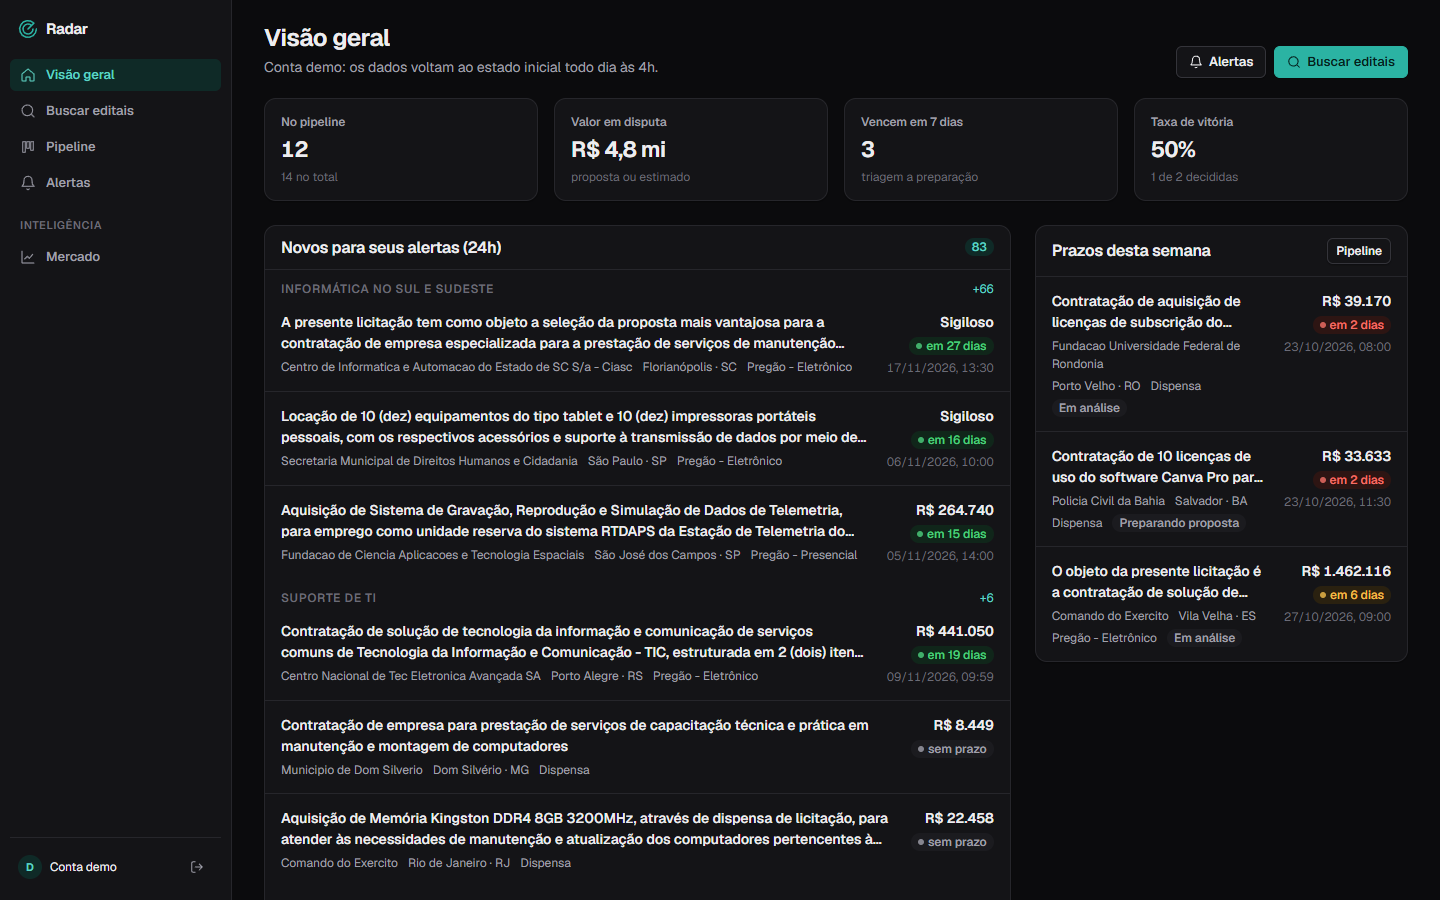
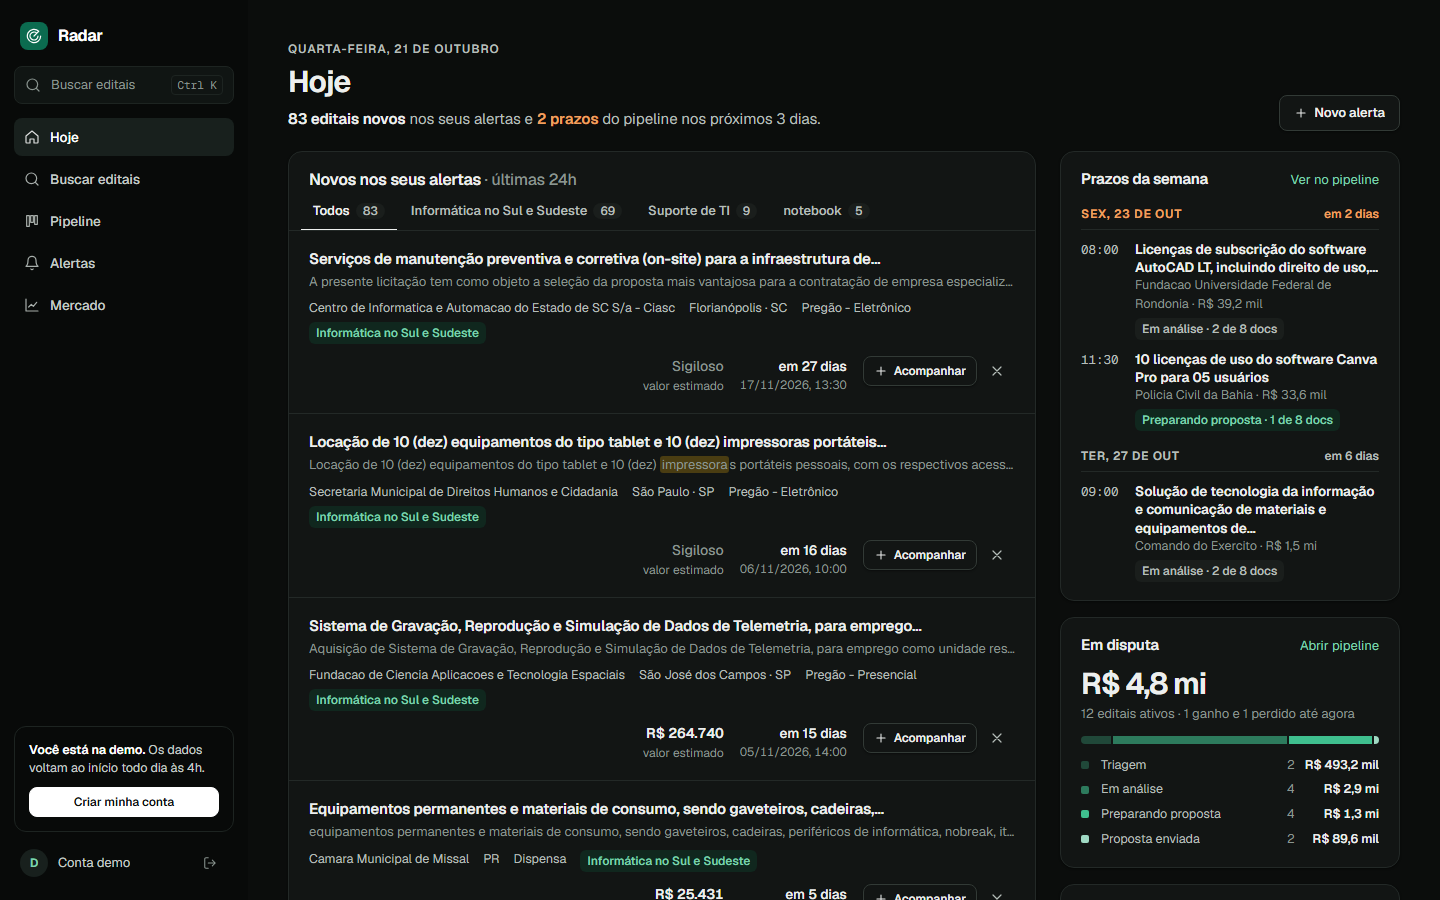
CI: one-click rollback, production environment, public smoke test
- workflow_dispatch with an optional `tag`: empty redeploys main, a
  commit SHA redeploys that already-published image (tests and builds
  are skipped after checking the image exists in GHCR).
- The deploy job runs in the `production` environment so GitHub shows
  the live URL on commits and PRs.
- After the container check, a smoke test hits the public URL (home and
  a search) and writes the deployed SHA to the job summary.
- README: day-to-day flow (PR, merge, rollback) and refreshed
  screenshots of the redesign; highlight no longer splits words.

diff --git a/src/app/globals.css b/src/app/globals.css
@@ -299,7 +299,7 @@ table.table { width: 100%; border-collapse: collapse; font-size: 13px; }
 @media (max-width: 900px) { .split { grid-template-columns: minmax(0, 1fr); } .filters { position: static; } }
 .searchbar { display: flex; gap: 8px; }
 .searchbar .input { flex: 1; }
-.hl { background: var(--hl); color: inherit; border-radius: 3px; padding: 0 2px; }
+.hl { background: var(--hl); color: inherit; border-radius: 2px; box-shadow: 0 0 0 2px var(--hl); }
 .result { display: flex; flex-wrap: wrap; gap: 12px 24px; padding: 18px 20px; border-bottom: 1px solid var(--border); }
 .result:last-child { border-bottom: 0; }
 .result:hover { background: color-mix(in srgb, var(--surface-2) 50%, var(--surface)); }
@@ -386,7 +386,7 @@ dialog.drawer .drawer-body { padding: 16px 20px 32px; display: grid; gap: 20px; 
 .previa-row:hover b { color: var(--accent-text); }
 .previa-row .r { flex: none; text-align: right; }
 .previa-row small.urgente { color: var(--warn); font-weight: 600; }
-.previa-ia { position: absolute; left: -16px; bottom: 0; width: min(340px, 90%); background: var(--sidebar); color: #e8ecea; border-radius: 14px; padding: 16px 18px; box-shadow: var(--shadow-lg); display: grid; gap: 10px; font-size: 13px; }
+.previa-ia { position: absolute; left: -16px; bottom: 0; width: min(340px, 90%); background: var(--sidebar); border: 1px solid var(--sidebar-line); color: #e8ecea; border-radius: 14px; padding: 16px 18px; box-shadow: var(--shadow-lg); display: grid; gap: 10px; font-size: 13px; }
 .previa-ia .tag { background: var(--sidebar-2); color: #e8ecea; }
 @media (max-width: 560px) { .previa-ia { left: 8px; } }
 .eyebrow { display: inline-flex; align-items: center; gap: 8px; height: 30px; padding: 0 12px; border-radius: 99px; background: var(--surface); border: 1px solid var(--border); font-size: 13px; font-weight: 550; color: var(--muted); }

diff --git a/README.md b/README.md
@@ -6,7 +6,7 @@
 
 <picture>
   <source media="(prefers-color-scheme: dark)" srcset="docs/painel-dark.png">
-  <img alt="Visão geral: novos editais dos alertas e prazos da semana" src="docs/painel.png">
+  <img alt="Hoje: editais novos dos alertas com triagem na linha e os prazos da semana" src="docs/painel.png">
 </picture>
 
 ## O que faz
@@ -84,6 +84,14 @@ TEST_DATABASE_URL=postgres://radar:radar@localhost:5544/radar_test npm test
 ## Deploy
 
 Todo push na `main` que passa no CI builda as imagens `web` e `jobs`, publica no GHCR e faz `docker compose up -d` na VPS em `/opt/radar` com um usuário dedicado, seguido de smoke test. O nginx do host serve `/radar` com o snippet em [`deploy/nginx-location.conf`](deploy/nginx-location.conf). Segredos ficam só no `.env` da VPS.
+
+Fluxo do dia a dia:
+
+1. Abra um PR. O CI roda typecheck, lint, testes (com Postgres) e `next build`.
+2. Faça o merge. O mesmo workflow builda as imagens marcadas com o SHA do commit, implanta na VPS, testa a porta do container e depois a URL pública. O deploy aparece no ambiente `production` do GitHub, com link para o app.
+3. Para voltar uma versão: **Actions → CI → Run workflow** na `main`, com o SHA de um deploy anterior em `tag`. O job pula testes e build e implanta a imagem que já está no GHCR. Com `tag` vazio, reimplanta a `main` atual.
+
+As imagens antigas deste app são apagadas da VPS a cada deploy; as do GHCR ficam, e é delas que o rollback depende.
 
 ---
 
